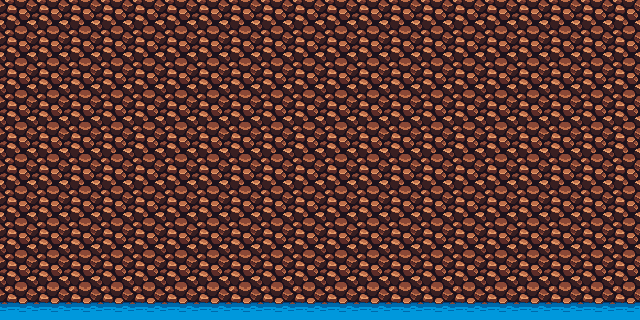
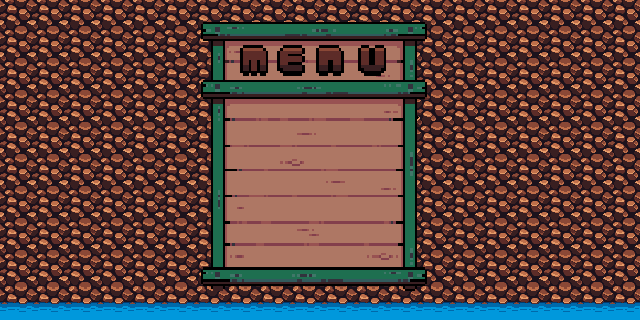
menu

Changed region(s): [[0.3125, 0.0625, 0.6875, 0.9062]]

diff --git a/src/game/java/GameStates/Menu.java b/src/game/java/GameStates/Menu.java
@@ -2,26 +2,41 @@ package GameStates;
 
 import controller.loop.Game;
 
+import java.awt.*;
 import java.awt.event.KeyEvent;
 import java.awt.event.MouseEvent;
+import java.awt.image.BufferedImage;
 
-import static GameStates.GameState.GAMERUN;
+import static GameStates.GameState.*;
+import static utilities.images.ImageHandler.importImg;
 
 public class Menu extends State implements StateInterface{
 
+BufferedImage menubackground;
+MenuButton[] buttons = new MenuButton[3];
+
+
     public Menu(Game game) {
         super(game);
+        menubackground = importImg("/menugraphics/menu.png");
+        buttons[0]= new MenuButton(Game.GAME_WIDTH/2, 200, 0,GAMERUN);
+        buttons[1]= new MenuButton(Game.GAME_WIDTH/2, 300, 1,QUIT);
+        buttons[2]= new MenuButton(Game.GAME_WIDTH/2, 400, 2,QUIT);
     }
     @Override
     public void update(){
-
+        for(MenuButton button : buttons)button.update();
     }
 
     @Override
-    public void render() {
+    public void render(Graphics g) {
+        g.drawImage(menubackground,0,0,Game.GAME_WIDTH, Game.GAME_HEIGHT, null);
+        for(MenuButton button : buttons)button.draw(g);
+    }
+    public boolean isOver(MouseEvent e, MenuButton button){
+        return button.getHitbox().contains(e.getX(),e.getY());
 
     }
-
     @Override
     public void keyTyped(KeyEvent e) {
 
@@ -39,12 +54,14 @@ public class Menu extends State implements StateInterface{
 
     @Override
     public void mouseClicked(MouseEvent e) {
-        GameState.gamestate = GAMERUN;
+
     }
 
     @Override
     public void mousePressed(MouseEvent e) {
-
+        for(MenuButton button : buttons){
+            if(isOver(e,button))button.setMousePressed(true);
+        }
     }
 
     @Override
@@ -64,11 +81,23 @@ public class Menu extends State implements StateInterface{
 
     @Override
     public void mouseMoved(MouseEvent e) {
+        for(MenuButton button : buttons){
+            button.setMouseOver(false);
+        }
 
+        for(MenuButton button : buttons){
+            if(isOver(e,button)){button.setMouseOver(true);
+                break;}
+        }
     }
 
     @Override
     public void mouseReleased(MouseEvent e) {
+        for(MenuButton button : buttons){
+            if(isOver(e,button)){button.changeGameState();
+            break;}
+        }
+
 
     }
 

diff --git a/src/game/java/GameStates/MenuButton.java b/src/game/java/GameStates/MenuButton.java
@@ -1,0 +1,81 @@
+package GameStates;
+
+import controller.loop.Game;
+import org.w3c.dom.css.Rect;
+
+import java.awt.*;
+import java.awt.image.BufferedImage;
+
+import static utilities.constants.Constants.View.SCALE;
+import static utilities.images.ImageHandler.importImg;
+
+public class MenuButton {
+    private GameState gamestate;
+    private int xPos, yPos, index, whichstate;
+    private final int WIDTH = 140;
+    private final int HEIGHT= 56;
+    private final int BUTTON_WIDTH =WIDTH*SCALE;
+    private final int BUTTON_HEIGHT=HEIGHT*SCALE;
+    private BufferedImage[] images;
+
+    public Rectangle getHitbox() {
+        return hitbox;
+    }
+
+    private Rectangle hitbox;
+
+    public boolean isMouseOver() {
+        return mouseOver;
+    }
+
+    public void setMouseOver(boolean mouseOver) {
+        this.mouseOver = mouseOver;
+    }
+
+    private boolean mouseOver;
+
+    public boolean isMousePressed() {
+        return mousePressed;
+    }
+
+    public void setMousePressed(boolean mousePressed) {
+        this.mousePressed = mousePressed;
+    }
+
+    private boolean mousePressed;
+    public MenuButton(int x, int y, int index, GameState gamestate){
+        this.gamestate = gamestate;
+        this.xPos=x-BUTTON_WIDTH/2-10;
+        this.yPos=y;
+        this.index=index;
+        hitbox = new Rectangle(xPos, yPos,BUTTON_WIDTH, BUTTON_HEIGHT );
+        loadImages();
+
+    }
+
+    private void loadImages(){
+        images = new BufferedImage[3];
+        BufferedImage image = importImg("/menugraphics/buttons.png");
+        for(int i=0;i<images.length;i++){
+            images[i]= image.getSubimage(i*WIDTH,index*HEIGHT,WIDTH, HEIGHT);
+        }
+    }
+
+    public void draw(Graphics g){
+        g.drawImage(images[whichstate], xPos, yPos, BUTTON_WIDTH, BUTTON_HEIGHT, null);
+    }
+    public void update(){
+        whichstate=0;
+        if(mouseOver)whichstate=1;
+        if(mousePressed)whichstate=2;
+
+    }
+    public void reset(){
+        mouseOver=false;
+        mousePressed=false;
+    }
+    public void changeGameState(){
+        GameState.gamestate=this.gamestate;
+    }
+
+}

diff --git a/src/game/java/controller/inputs/MouseInputs.java b/src/game/java/controller/inputs/MouseInputs.java
@@ -23,7 +23,14 @@ public class MouseInputs implements MouseListener, MouseMotionListener {
 
     @Override
     public void mouseMoved(MouseEvent e) {
+        switch (GameState.gamestate) {
+            case MENU -> {
+                gamePanel.getGame().getMenu().mouseMoved(e);
+            }
+            case GAMERUN -> {
 
+            }
+        }
     }
 
     @Override
@@ -38,13 +45,26 @@ public class MouseInputs implements MouseListener, MouseMotionListener {
     }
     @Override
     public void mousePressed(MouseEvent e) {
-        // TODO Auto-generated method stub
+        switch (GameState.gamestate) {
+            case MENU -> {
+                gamePanel.getGame().getMenu().mousePressed(e);
+            }
+            case GAMERUN -> {
 
+            }
+        }
     }
 
     @Override
     public void mouseReleased(MouseEvent e) {
-        // TODO Auto-generated method stub
+        switch (GameState.gamestate) {
+            case MENU -> {
+                gamePanel.getGame().getMenu().mouseReleased(e);
+            }
+            case GAMERUN -> {
+
+            }
+        }
 
     }
 

diff --git a/src/game/java/controller/loop/Game.java b/src/game/java/controller/loop/Game.java
@@ -63,6 +63,9 @@ public class Game implements Runnable {
                 gamerun.update();
                 checkCloseToBorder();
             }
+            case QUIT -> {
+                System.exit(0);
+            }
         }
 
 
@@ -89,7 +92,7 @@ public class Game implements Runnable {
 
         switch(GameState.gamestate){
             case MENU -> {
-                menu.render();
+                menu.render(g);
             }
             case GAMERUN -> {
                 gamerun.getLevelManager().draw(g, xLvlOffset);

diff --git a/src/game/java/GameStates/GameRun.java b/src/game/java/GameStates/GameRun.java
@@ -5,6 +5,7 @@ import model.entities.Player;
 import view.level.LevelManager;
 import view.player.PlayerManager;
 
+import java.awt.*;
 import java.awt.event.KeyEvent;
 import java.awt.event.MouseEvent;
 
@@ -27,7 +28,7 @@ public class GameRun extends State implements  StateInterface {
     }
 
     @Override
-    public void render() {
+    public void render(Graphics g) {
 
     }
 

diff --git a/src/game/java/GameStates/StateInterface.java b/src/game/java/GameStates/StateInterface.java
@@ -1,11 +1,12 @@
 package GameStates;
 
+import java.awt.*;
 import java.awt.event.KeyEvent;
 import java.awt.event.MouseEvent;
 
 public interface StateInterface {
     public void update();
-    public void render();
+    public void render(Graphics g);
     public void keyTyped(KeyEvent e);
     public void keyReleased(KeyEvent e);
     public void keyPressed(KeyEvent e);

diff --git a/src/game/java/GameStates/GameState.java b/src/game/java/GameStates/GameState.java
@@ -1,7 +1,7 @@
 package GameStates;
 
 public enum GameState {
-    MENU, GAMERUN;
+    MENU, GAMERUN, QUIT;
     public static  GameState gamestate = MENU;
 
 }
